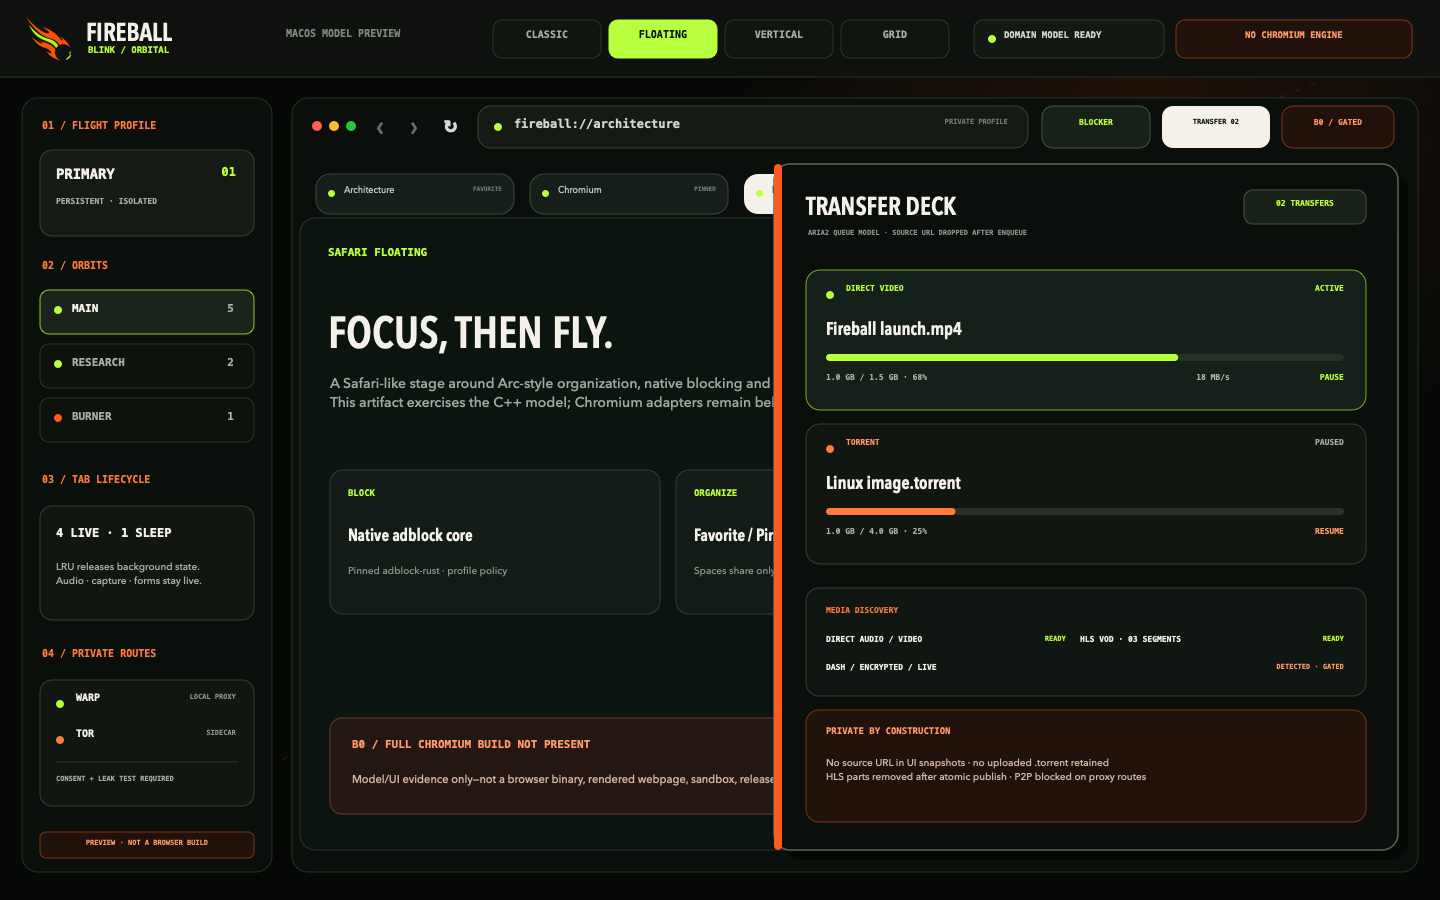
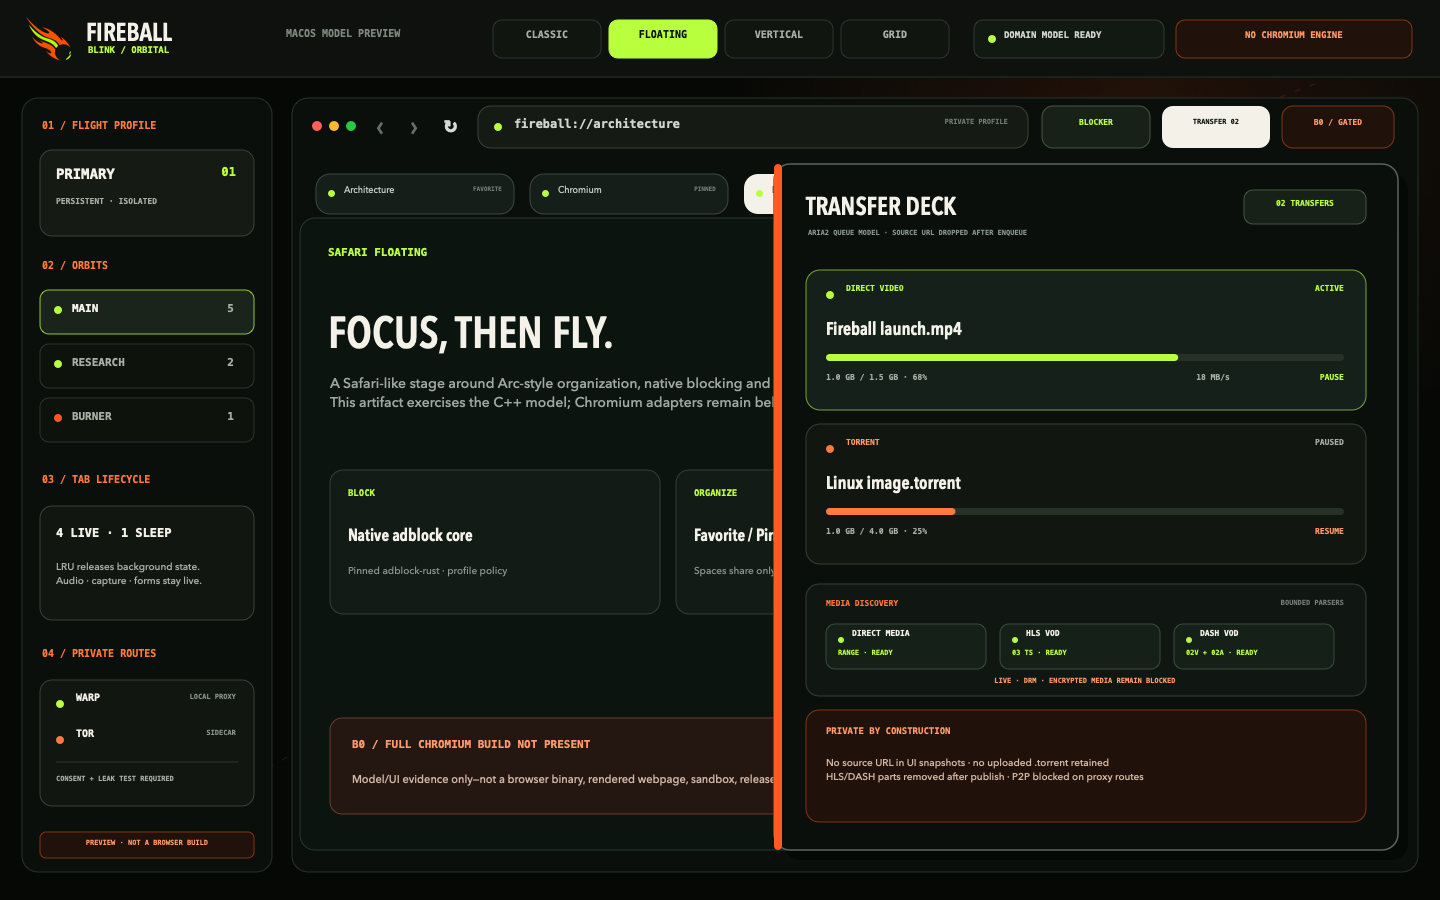
feat(blink): surface DASH readiness in preview

Changed region(s): [[0.6875, 0.6533, 0.9375, 0.7778], [0.5625, 0.6533, 0.6562, 0.7467], [0.5938, 0.84, 0.7812, 0.8711]]

diff --git a/preview/macos/main.mm b/preview/macos/main.mm
@@ -7,6 +7,7 @@
 #include <string>
 
 #include "fireball/browser/domain_model.h"
+#include "fireball/components/transfer/dash_vod.h"
 #include "fireball/components/transfer/hls_vod.h"
 #include "fireball/components/transfer/transfer_queue.h"
 
@@ -376,6 +377,30 @@ class PreviewModel final {
       std::abort();
     }
     hls_segment_count_ = hls.value->segments.size();
+
+    auto dash = fireball::transfer::ParseDashVodManifest(
+        "https://media.example.test/vod/manifest.mpd",
+        R"xml(<MPD type="static" mediaPresentationDuration="PT2S">
+  <Period>
+    <AdaptationSet contentType="video" mimeType="video/mp4"
+                   codecs="avc1.4d401e">
+      <SegmentTemplate timescale="1000" duration="1000"
+          initialization="video-init.mp4" media="video-$Number$.m4s"/>
+      <Representation id="video" bandwidth="800000" width="640" height="360"/>
+    </AdaptationSet>
+    <AdaptationSet contentType="audio" mimeType="audio/mp4"
+                   codecs="mp4a.40.2">
+      <SegmentTemplate timescale="1000" duration="1000"
+          initialization="audio-init.mp4" media="audio-$Number$.m4s"/>
+      <Representation id="audio" bandwidth="128000"/>
+    </AdaptationSet>
+  </Period>
+</MPD>)xml");
+    if (!dash.ok() || !dash.value->audio.has_value()) {
+      std::abort();
+    }
+    dash_video_segment_count_ = dash.value->video.segment_uris.size();
+    dash_audio_segment_count_ = dash.value->audio->segment_uris.size();
   }
 
   BrowserModel& model() { return model_; }
@@ -385,6 +410,12 @@ class PreviewModel final {
   const SpaceId& burner_space() const { return *burner_space_; }
   const TransferQueue& transfers() const { return transfers_; }
   std::size_t hls_segment_count() const { return hls_segment_count_; }
+  std::size_t dash_video_segment_count() const {
+    return dash_video_segment_count_;
+  }
+  std::size_t dash_audio_segment_count() const {
+    return dash_audio_segment_count_;
+  }
 
  private:
   TabId AddTab(const char* id,
@@ -410,6 +441,8 @@ class PreviewModel final {
   std::optional<SpaceId> research_space_;
   std::optional<SpaceId> burner_space_;
   std::size_t hls_segment_count_ = 0;
+  std::size_t dash_video_segment_count_ = 0;
+  std::size_t dash_audio_segment_count_ = 0;
 };
 
 }  // namespace
@@ -1069,32 +1102,47 @@ class PreviewModel final {
     y += 154;
   }
 
-  RoundedRect(NSMakeRect(806, 588, 560, 108), 13, RGB(0x101713),
+  RoundedRect(NSMakeRect(806, 584, 560, 112), 13, RGB(0x101713),
               RGB(0x344036));
-  Text(@"MEDIA DISCOVERY", NSMakeRect(826, 606, 180, 18), MonoFont(8),
+  Text(@"MEDIA DISCOVERY", NSMakeRect(826, 599, 180, 18), MonoFont(8),
        RGB(0xFF7A3D));
-  Text(@"DIRECT AUDIO / VIDEO", NSMakeRect(826, 635, 190, 18), MonoFont(8),
-       RGB(0xF4F1E8));
-  Text(@"READY", NSMakeRect(1006, 635, 60, 18), MonoFont(7), RGB(0xB8FF3D),
-       NSTextAlignmentRight);
-  NSString* hls_label = [NSString
-      stringWithFormat:@"HLS VOD · %02zu SEGMENTS",
-                       _preview.hls_segment_count()];
-  Text(hls_label, NSMakeRect(1080, 635, 160, 18), MonoFont(8),
-       RGB(0xF4F1E8));
-  Text(@"READY", NSMakeRect(1284, 635, 60, 18), MonoFont(7), RGB(0xB8FF3D),
-       NSTextAlignmentRight);
-  Text(@"DASH / ENCRYPTED / LIVE", NSMakeRect(826, 663, 230, 18),
-       MonoFont(8), RGB(0xF4F1E8));
-  Text(@"DETECTED · GATED", NSMakeRect(1204, 663, 140, 18), MonoFont(7),
-       RGB(0xFF9A6A), NSTextAlignmentRight);
+  Text(@"BOUNDED PARSERS", NSMakeRect(1176, 599, 168, 18), MonoFont(7),
+       RGB(0x718078), NSTextAlignmentRight);
+
+  NSArray<NSArray<NSString*>*>* media_lanes = @[
+    @[@"DIRECT MEDIA", @"RANGE · READY"],
+    @[
+      @"HLS VOD",
+      [NSString stringWithFormat:@"%02zu TS · READY",
+                                 _preview.hls_segment_count()]
+    ],
+    @[
+      @"DASH VOD",
+      [NSString stringWithFormat:@"%02zuV + %02zuA · READY",
+                                 _preview.dash_video_segment_count(),
+                                 _preview.dash_audio_segment_count()]
+    ],
+  ];
+  for (NSInteger index = 0; index < 3; ++index) {
+    const CGFloat x = 826 + index * 174;
+    RoundedRect(NSMakeRect(x, 624, 160, 45), 9, RGB(0x152018),
+                RGB(0x3B4A3F));
+    RoundedRect(NSMakeRect(x + 12, 637, 6, 6), 3, RGB(0xB8FF3D));
+    Text(media_lanes[index][0], NSMakeRect(x + 26, 629, 122, 17), MonoFont(8),
+         RGB(0xF4F1E8));
+    Text(media_lanes[index][1], NSMakeRect(x + 12, 649, 136, 15), MonoFont(7),
+         RGB(0xB8FF3D));
+  }
+  Text(@"LIVE · DRM · ENCRYPTED MEDIA REMAIN BLOCKED",
+       NSMakeRect(826, 677, 518, 14), MonoFont(7), RGB(0xFF9A6A),
+       NSTextAlignmentCenter);
 
   RoundedRect(NSMakeRect(806, 710, 560, 112), 13, RGB(0x21110B),
               RGB(0x813513));
   Text(@"PRIVATE BY CONSTRUCTION", NSMakeRect(826, 726, 260, 20), MonoFont(9),
        RGB(0xFF9A6A));
   Text(@"No source URL in UI snapshots · no uploaded .torrent retained\n"
-        "HLS parts removed after atomic publish · P2P blocked on proxy routes",
+        "HLS/DASH parts removed after publish · P2P blocked on proxy routes",
        NSMakeRect(826, 756, 500, 48), BodyFont(10), RGB(0xD3B6A3));
 }
 

diff --git a/design-system/fireball-blink/pages/browser-shell.md b/design-system/fireball-blink/pages/browser-shell.md
@@ -18,10 +18,10 @@ These rules override `../MASTER.md` for the four-layout model preview.
 - Transfer Deck is a right-side utility drawer, never a center modal. Each job
   shows source class, explicit state, byte progress, rate and a single valid
   action. It never renders a signed URL, magnet URI or raw backend error.
-- Direct media and supported finite MPEG-TS HLS VOD use lime readiness. DASH,
-  encrypted/live/fMP4 HLS and torrents on proxy routes use orange plus explicit
-  gated text. WARP/Tor must never imply torrent privacy when peer sockets are
-  policy-disabled.
+- Direct media, supported finite MPEG-TS HLS VOD and supported static fMP4 DASH
+  VOD use lime readiness. DRM, encrypted/live media, unsupported HLS/DASH forms
+  and torrents on proxy routes use orange plus explicit gated text. WARP/Tor
+  must never imply torrent privacy when peer sockets are policy-disabled.
 - Grid cards use index, active/background text and URL; the active card needs a
   border plus an `ACTIVE` label, not color alone.
 - The UI must continue to say `NO CHROMIUM ENGINE` and `PREVIEW · NOT A BROWSER

diff --git a/docs/MACOS_PREVIEW.md b/docs/MACOS_PREVIEW.md
@@ -28,10 +28,10 @@ use keys `1`–`4` and the left/right arrow keys. The same in-memory
 Click `TRANSFER 02` or press `D` to toggle the Transfer Deck. The drawer uses
 the production `TransferQueue` state machine with a deterministic preview
 backend: one direct-video job is active and one torrent is paused. Its HLS VOD
-readiness label is derived from the production bounded parser; DASH and
-unsupported HLS forms remain visibly gated. It proves UI mapping and privacy
-labels only; the real aria2 download/assembly process is exercised separately
-by `make check`.
+and static fMP4 DASH readiness labels are derived from their production bounded
+parsers. Live, encrypted and DRM media remain visibly blocked. It proves UI
+mapping and privacy labels only; the real aria2 download/assembly and FFmpeg mux
+processes are exercised separately by `make check`.
 
 The Vertical layout renders the Arc-inspired Favorite/Pinned/Today hierarchy.
 The Safari Floating layout uses a unified location surface and floating tab

diff --git a/README.md b/README.md
@@ -209,9 +209,9 @@ process shutdown. Install dependencies with `brew install aria2 ffmpeg` on macOS
 or `apt install aria2 ffmpeg` on Ubuntu. Chromium-side grant minting, the
 origin-aware private-media backend and the user-facing Chromium transfer shelf
 remain follow-up work. The AppKit preview includes a
-deterministic drawer backed by the real queue state machine and HLS parser, not
-a production download surface. See [the transfer architecture and remaining
-promotion work](docs/TRANSFERS.md).
+deterministic drawer backed by the real queue state machine plus HLS and DASH
+parsers, not a production download surface. See [the transfer architecture and
+remaining promotion work](docs/TRANSFERS.md).
 
 ## WARP and Tor egress foundation
 
